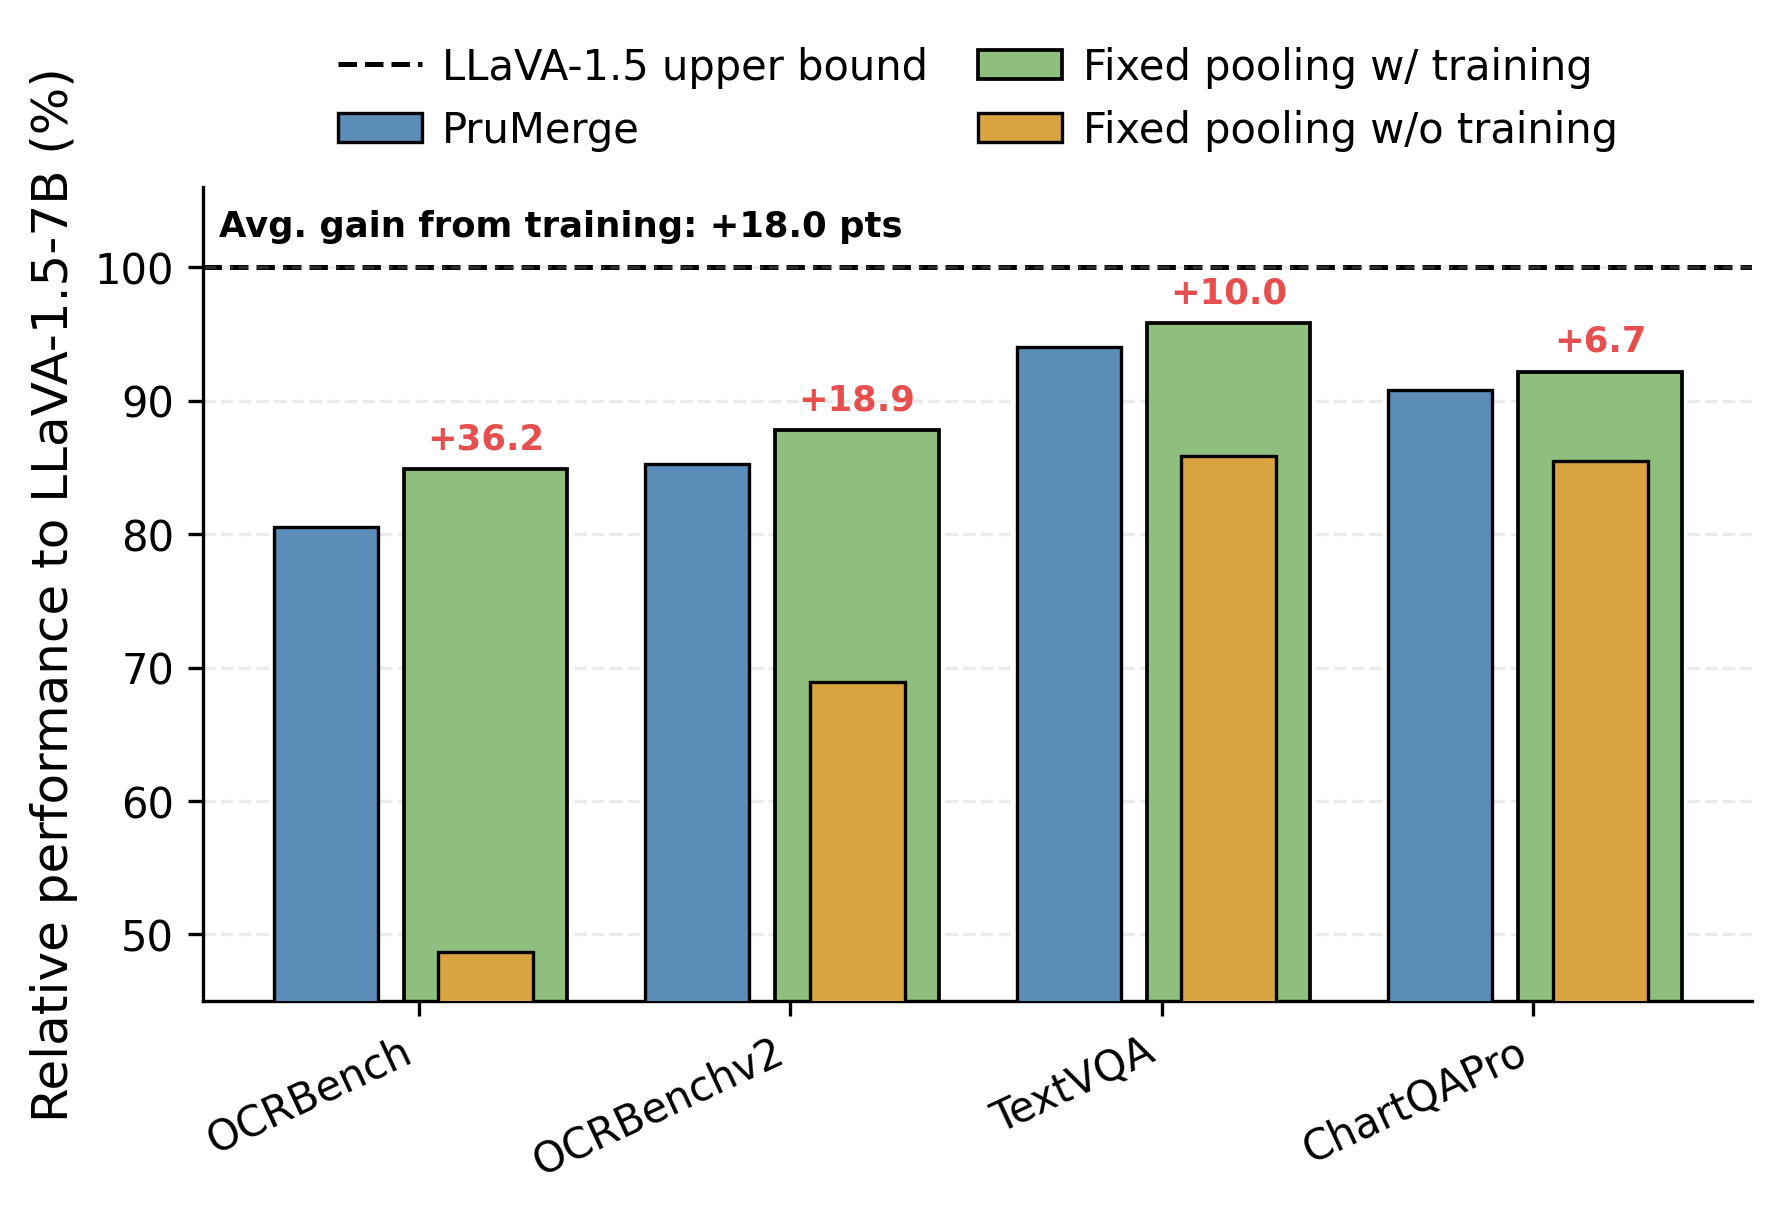
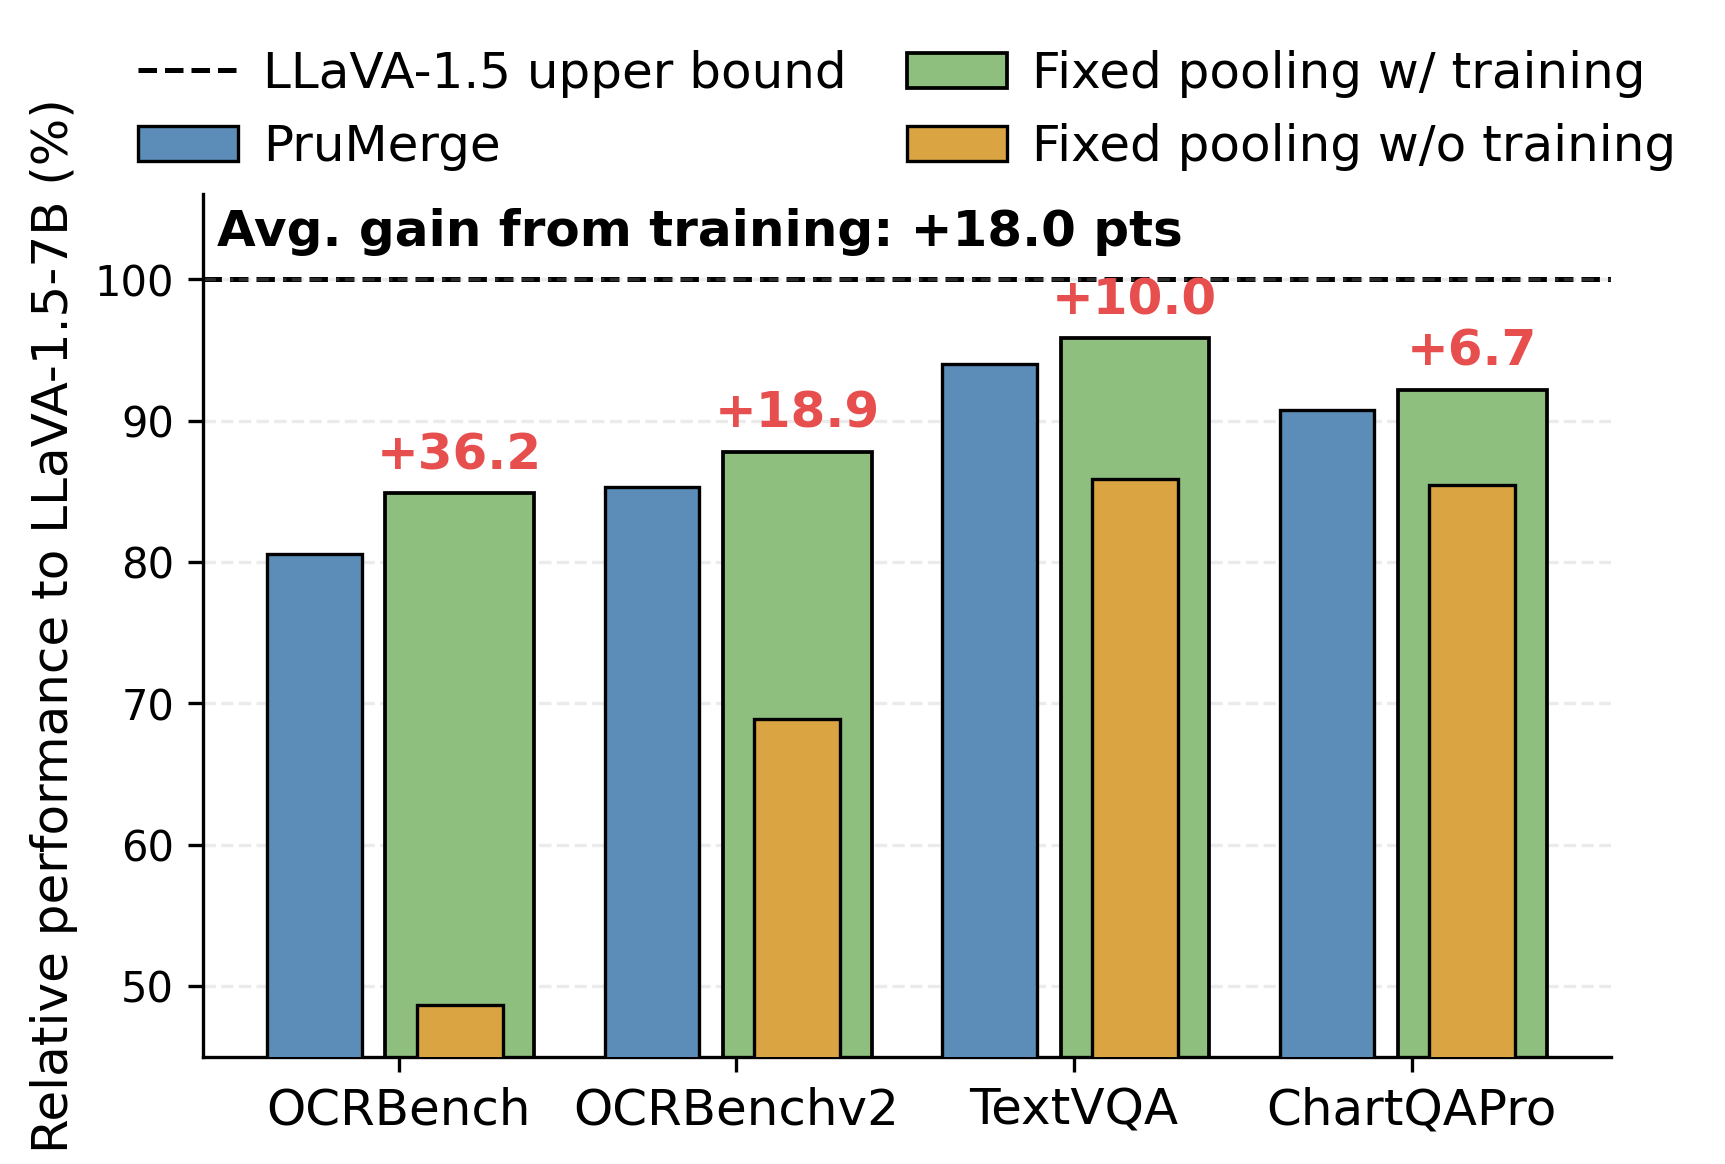
make the figure text bigger for the motivation figure

diff --git a/src/motivation_figure.py b/src/motivation_figure.py
@@ -88,11 +88,11 @@ if len(bad) > 0:
 
 plt.rcParams.update({
     "font.family": "DejaVu Sans",
-    "font.size": 8,
+    "font.size": 14,
     "axes.labelsize": 12,
     "xtick.labelsize": 10,
     "ytick.labelsize": 10,
-    "legend.fontsize": 10,
+    "legend.fontsize": 12,
 })
 
 fig, ax = plt.subplots(figsize=(6.0, 4.2))
@@ -168,14 +168,14 @@ for i, g in enumerate(gain):
         f"+{g:.1f}",
         ha="center",
         va="bottom",
-        fontsize=8.5,
+        fontsize=12,
         color="#E74F4F",
         fontweight="bold"
     )
 
 ax.set_ylabel("Relative performance to LLaVA-1.5-7B (%)")
 ax.set_xticks(x)
-ax.set_xticklabels(benchmarks, rotation=25, ha="right")
+ax.set_xticklabels(benchmarks, ha="center", fontsize=12)
 
 ymin = max(45, np.floor(min(no_train.min(), trained.min(), prumerge.min()) / 5) * 5 - 5)
 ax.set_ylim(ymin, 106)
@@ -200,7 +200,7 @@ ax.text(
     0.94,
     f"Avg. gain from training: +{avg_gain:.1f} pts",
     transform=ax.transAxes,
-    fontsize=8.5,
+    fontsize=12,
     fontweight="bold"
 )
 
